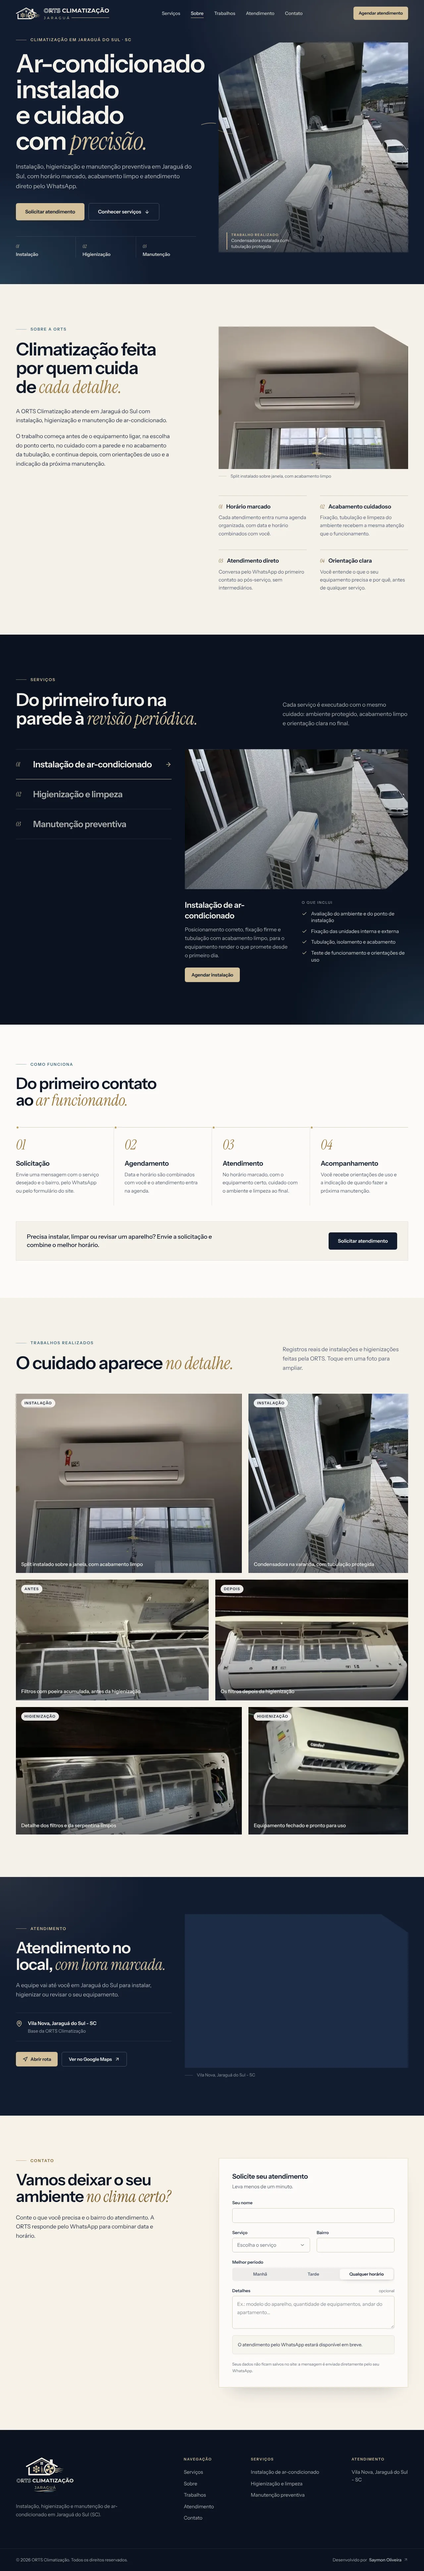
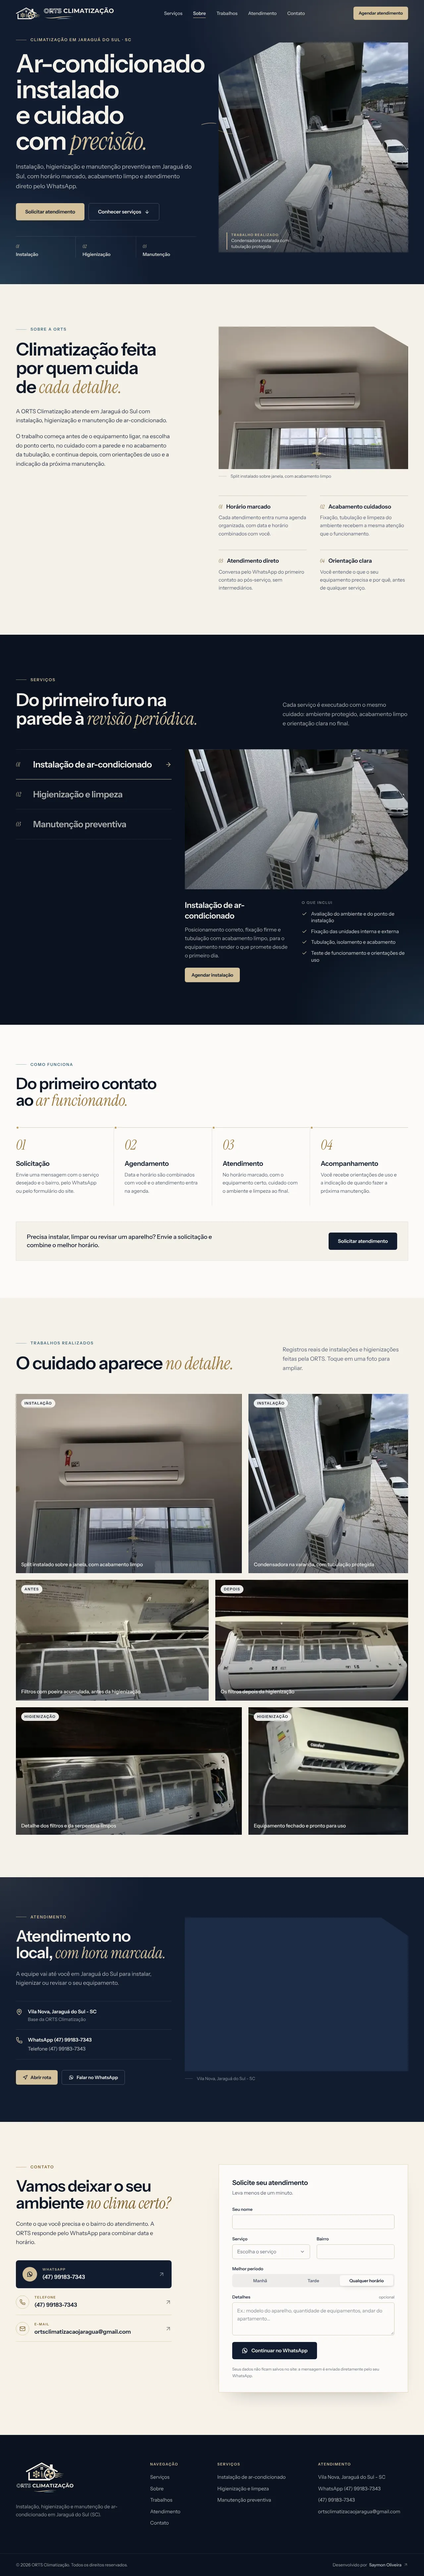
ORTS Climatização: domínio próprio e imagens com a nova assinatura
- Link do projeto passa a ser ortsclimatizacao.com.br
- Imagens refeitas com a logo sem "Jaraguá" e os contatos confirmados
- Contagem de testes atualizada (68)

diff --git a/src/data/projects.ts b/src/data/projects.ts
@@ -114,13 +114,13 @@ export const projects: Project[] = [
         "Identidade visual criada a partir da logo: símbolo vetorizado, variações e paleta própria",
         "Agenda com expediente, pausas, tempo de deslocamento e encaixes configuráveis, e conflitos barrados no PostgreSQL",
         "Painel pensado para o celular: horários livres em tempo real, confirmação pelo WhatsApp e rota até o cliente",
-        "66 testes automatizados, acessibilidade 100 no Lighthouse e componentes feitos do zero, sem controles padrão do navegador",
+        "68 testes automatizados, acessibilidade 100 no Lighthouse e componentes feitos do zero, sem controles padrão do navegador",
       ],
       en: [
         "Visual identity built from the logo: a vectorized mark, variations and its own palette",
         "Scheduling with configurable hours, breaks, travel time and walk-ins, with conflicts blocked in PostgreSQL",
         "Mobile-first dashboard: live open slots, WhatsApp confirmations and directions to each customer",
-        "66 automated tests, a 100 accessibility score on Lighthouse and components built from scratch, with no default browser widgets",
+        "68 automated tests, a 100 accessibility score on Lighthouse and components built from scratch, with no default browser widgets",
       ],
     },
     stack: [
@@ -139,7 +139,7 @@ export const projects: Project[] = [
       },
     },
     repoUrl: "https://github.com/saymonthedev/agenda-orts-jaragua",
-    liveUrl: "https://orts-jaragua.vercel.app",
+    liveUrl: "https://ortsclimatizacao.com.br",
   },
   {
     slug: "stainhaus",
